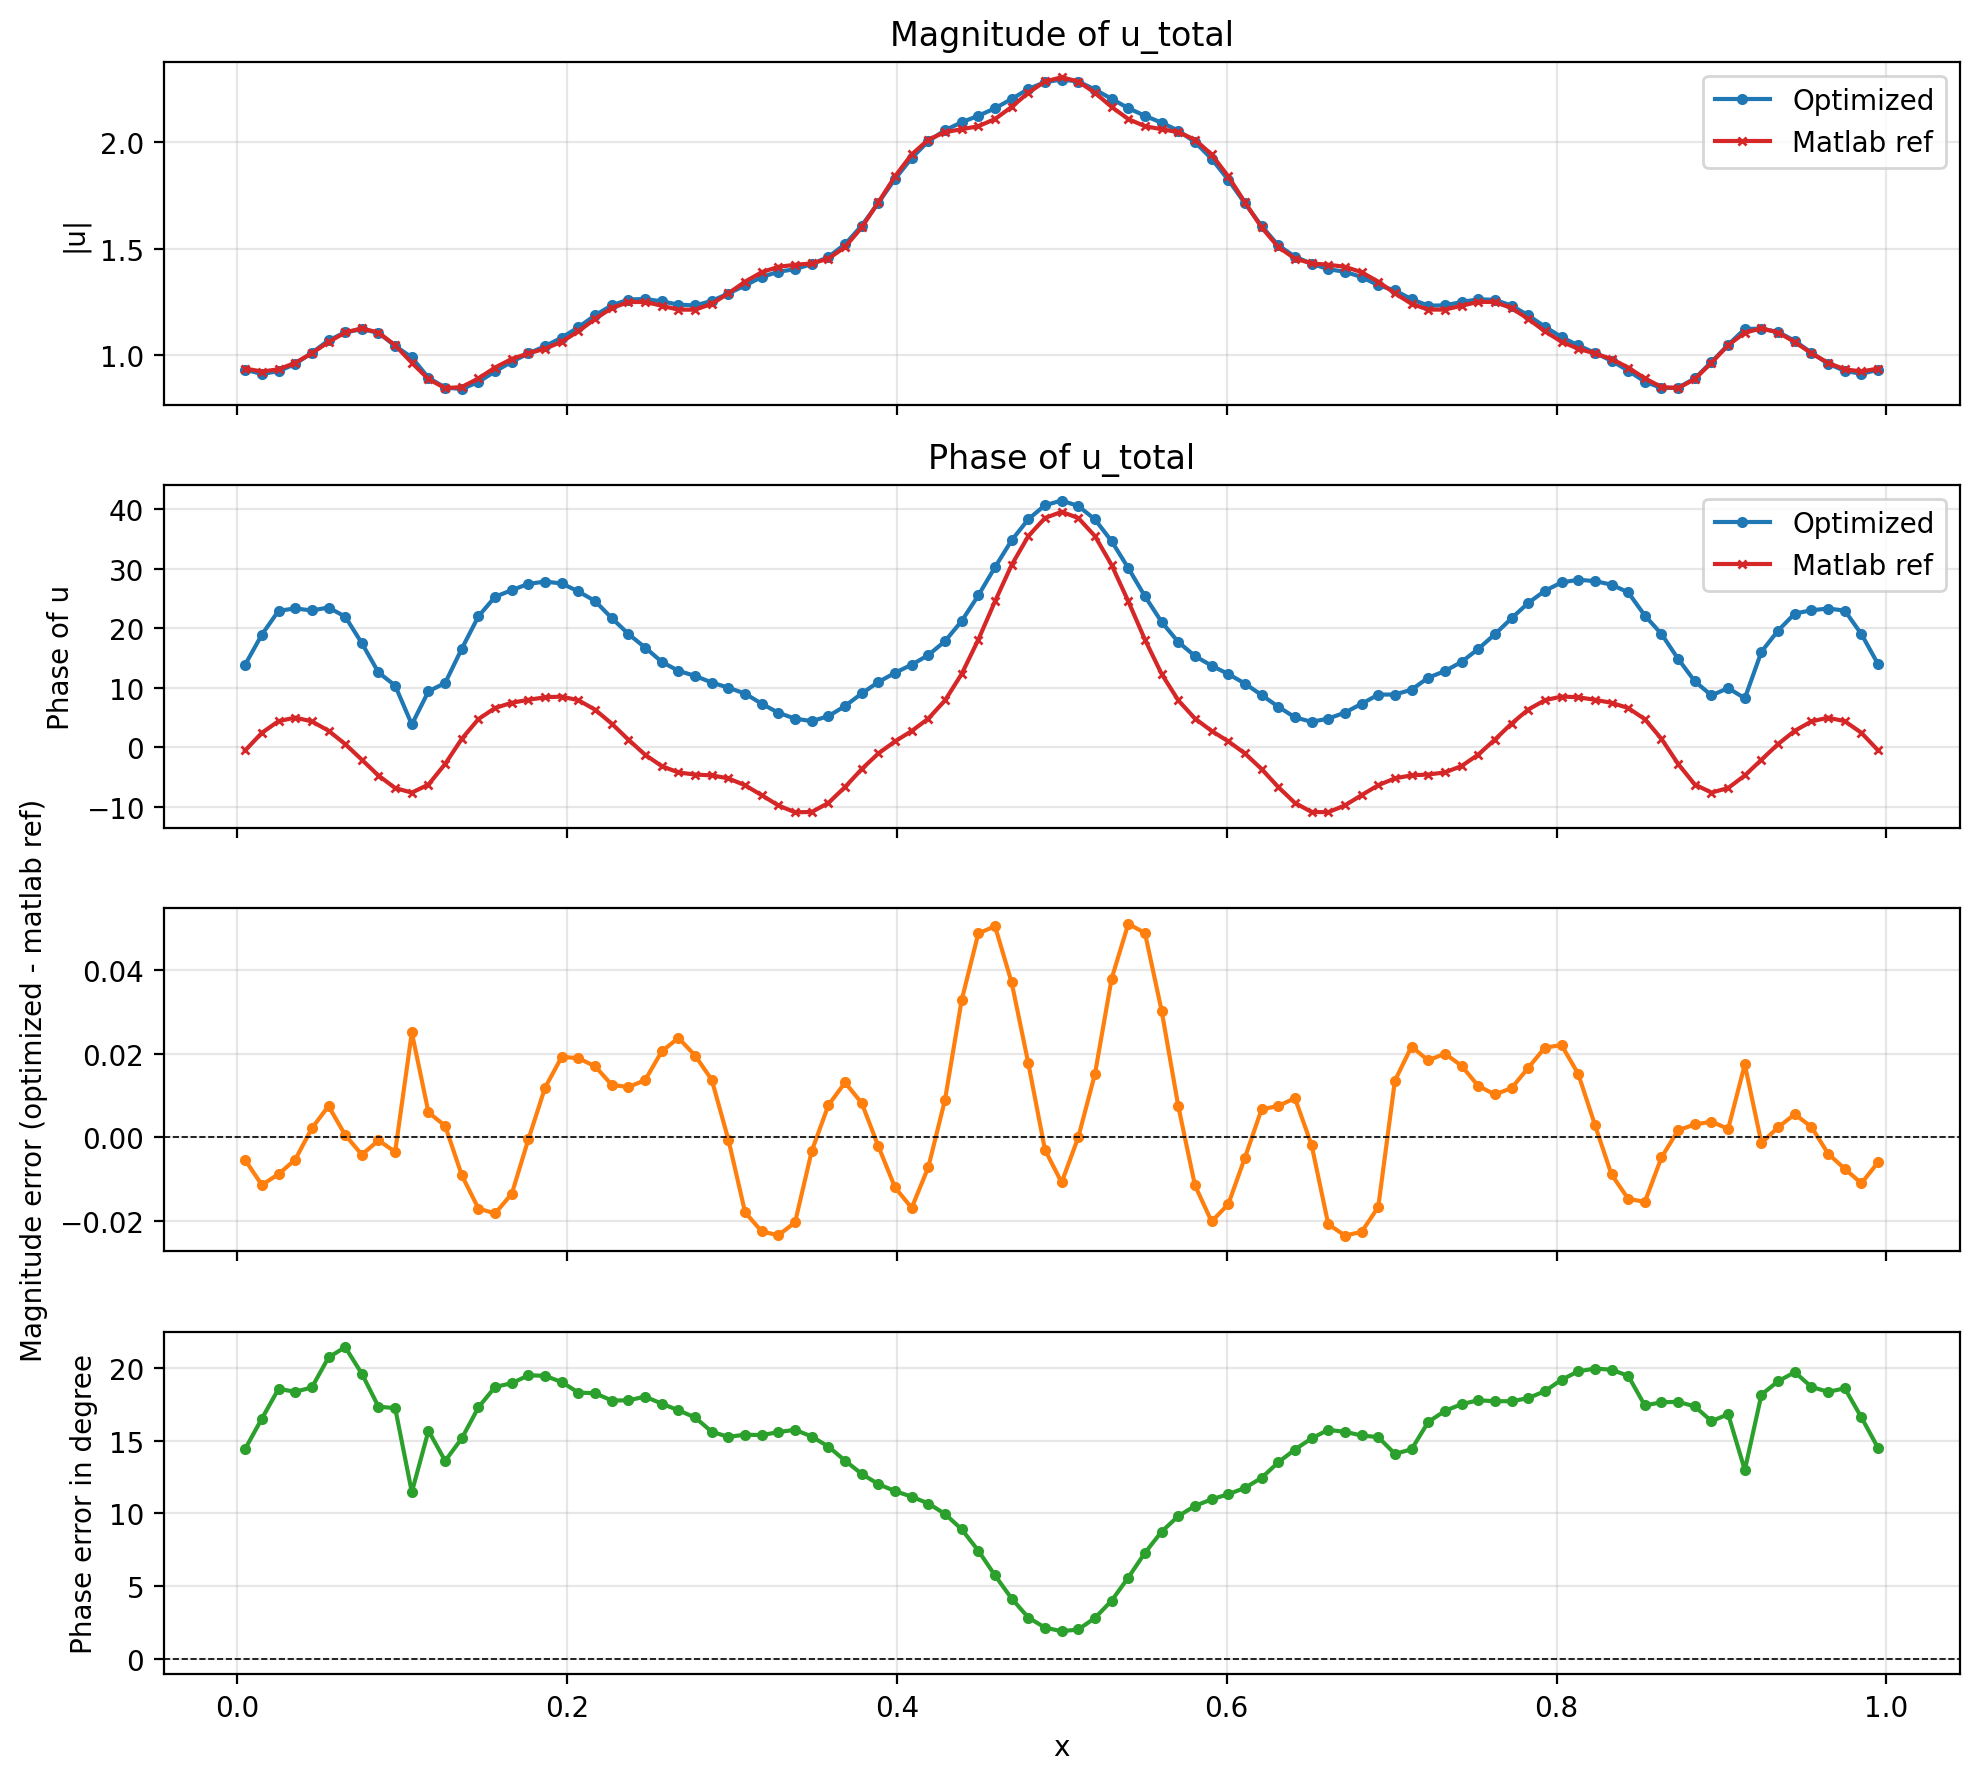
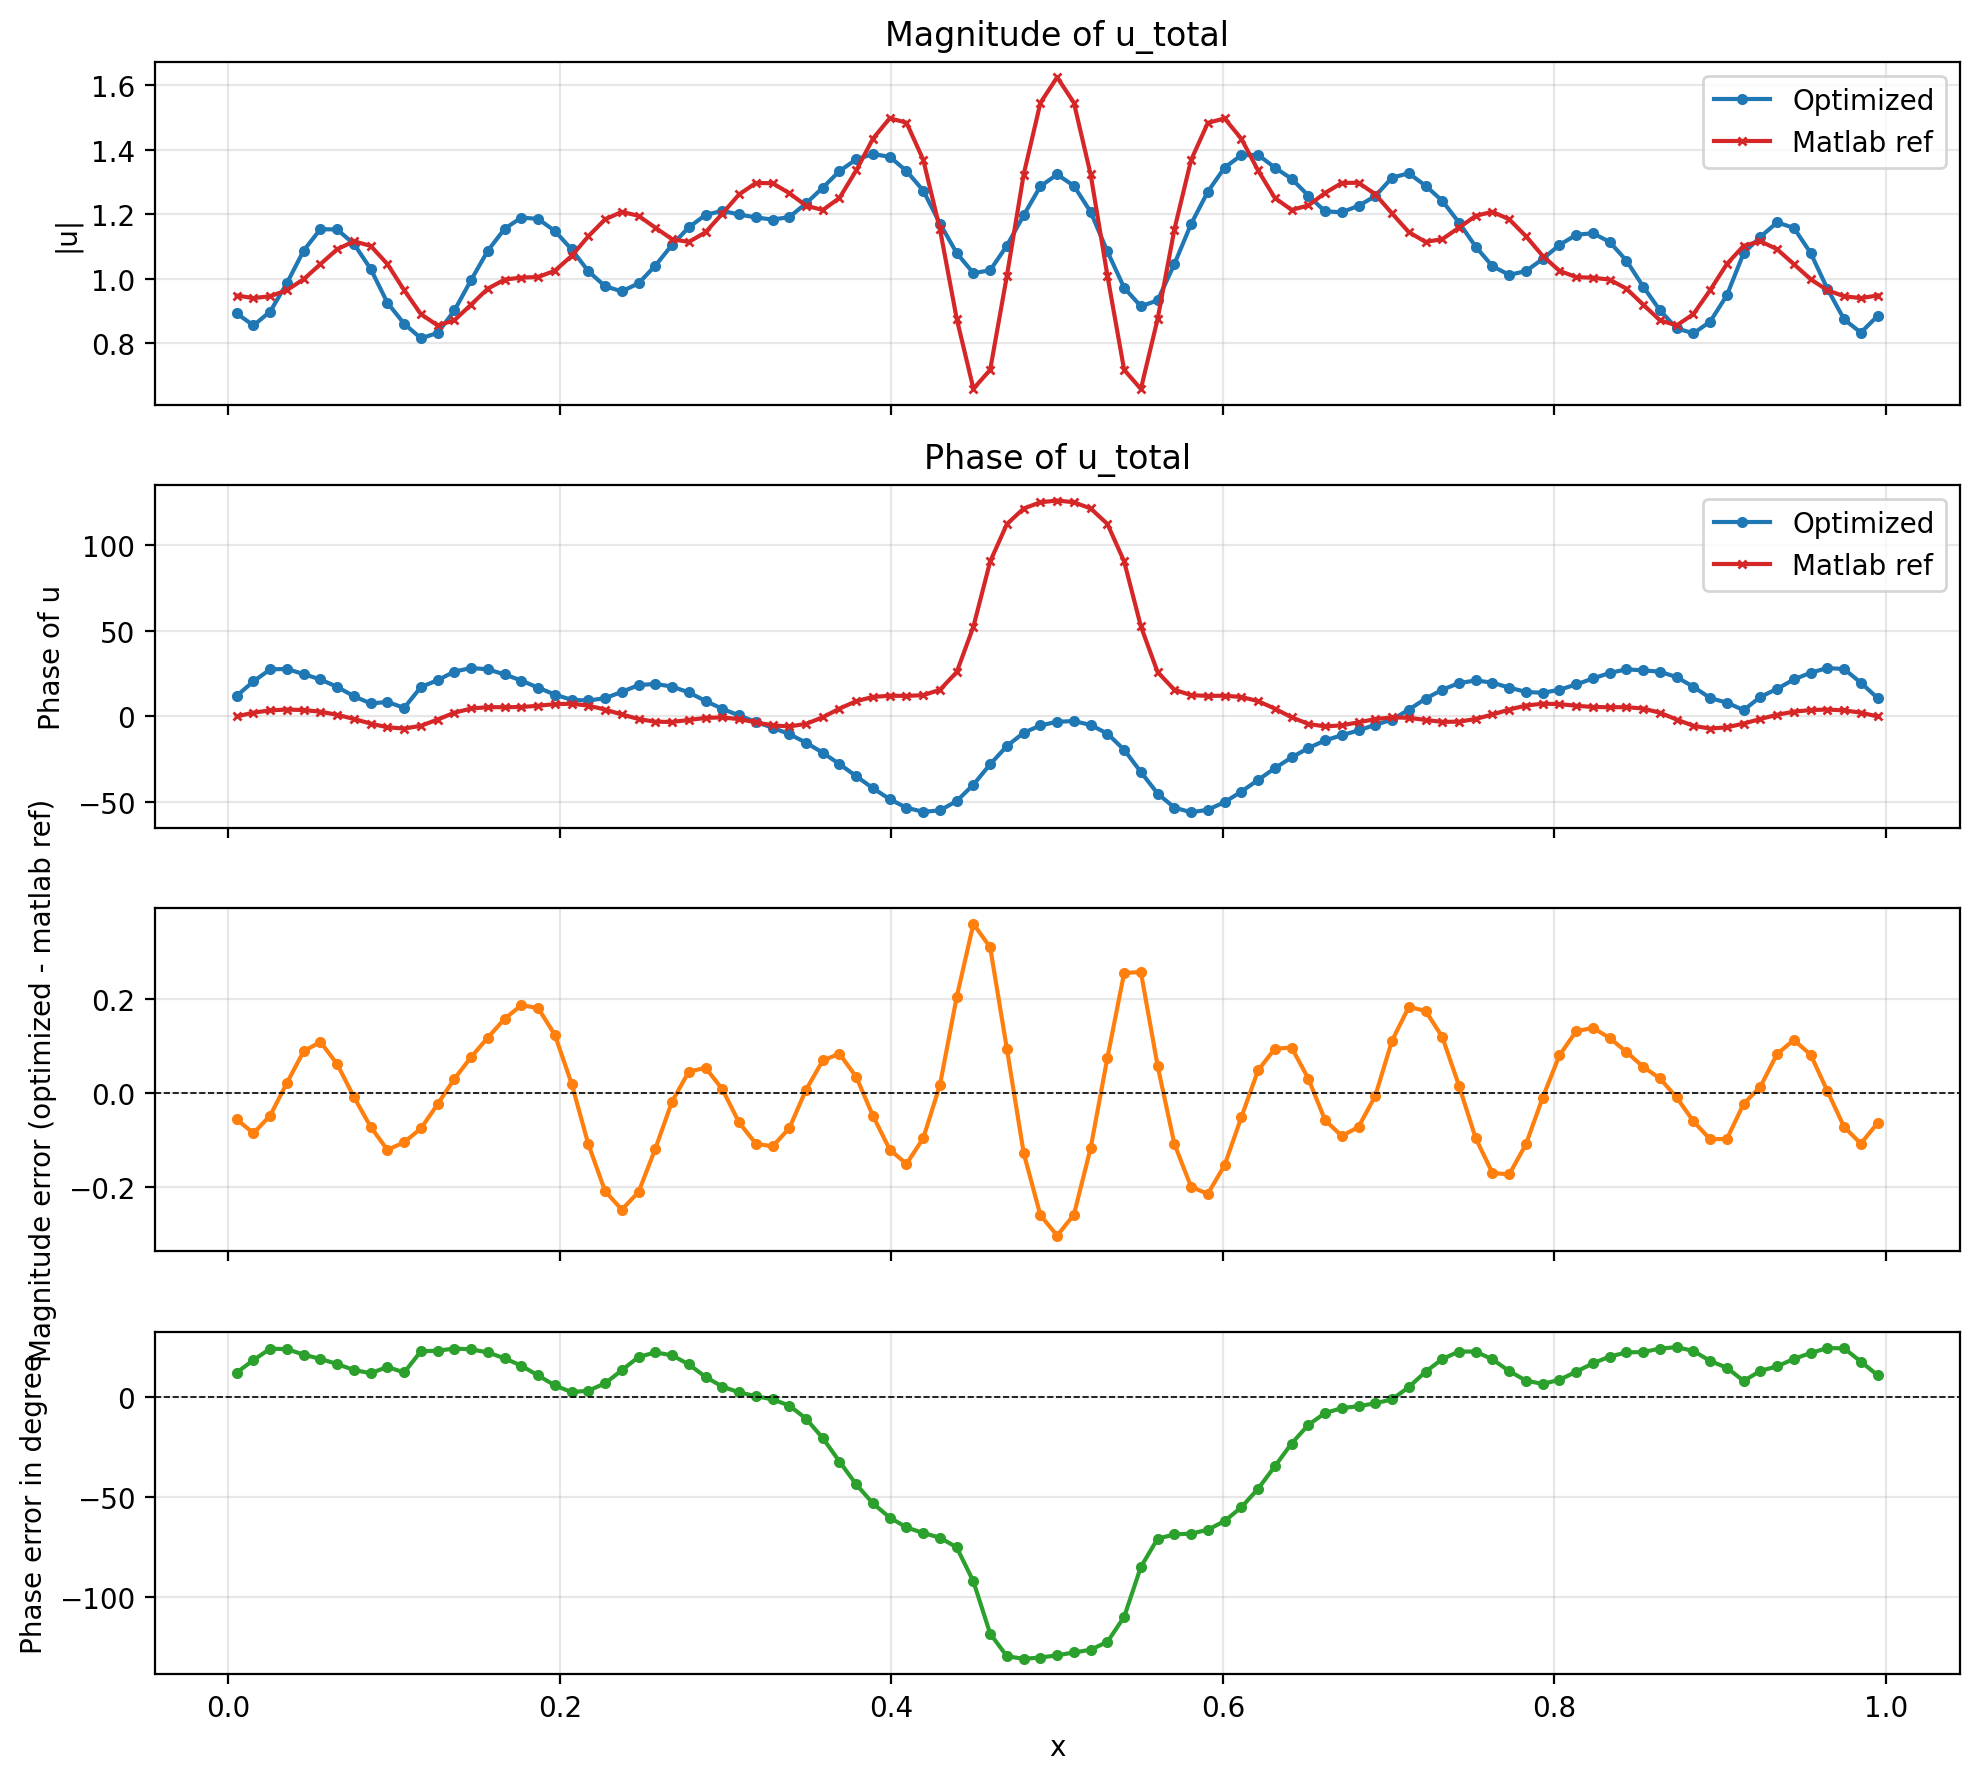
Correct the result of amp2

diff --git a/reflection_plane_wave/post_process.py b/reflection_plane_wave/post_process.py
@@ -15,7 +15,7 @@ from HH_shape_opt import *
 frequency = 5e9
 inc_wave_setup = IncidentWaveSetup(frequency, plane_wave)
 
-measurement_data_file_path = "measurements/matlab_measurements_sin0.5_scatter.csv"
+measurement_data_file_path = "measurements/matlab_measurements_sin0.5_amp2.csv"
 msh_file_path = "meshes/square_with_rect_obstacle.msh"
 markers_dict = {
     "obstacle": OBSTACLE_MARKER,
@@ -28,17 +28,17 @@ obstacle_stiffness = 25
 initial_guess_mesh_util = MeshUtil(
     msh_file_path, markers_dict, obstacle_stiffness)
 
-result_path = "outputs/result_sin0.5_scatter_DG0_matlab.h5"
+result_path = "outputs/result_sin0.5_amp2_DG0_matlab.h5"
 goal_geometry_msh_path = "meshes/square_with_halfsin_perturbed_rect_obstacle.msh"
-matlab_fullfield_csv_path = "measurements/matlab_fullfield_sin0.5_scatter.csv"
+matlab_fullfield_csv_path = "measurements/matlab_fullfield_sin0.5_amp2.csv"
 results = calculate_magnitude_and_phase_error(matlab_fullfield_csv_path, result_path,
-                                        initial_guess_mesh_util, inc_wave_setup, True)
+                                        initial_guess_mesh_util, inc_wave_setup, False)
 
-plot_projected_errors(results, "outputs/error_sin0.5_scatter_DG0_matlab.png", True)
+plot_projected_errors(results, "outputs/error_sin0.5_amp2_DG0_matlab.png", False)
 plot_mesh_deformation_from_result(
     result_path,
     goal_geometry_msh_path,
     initial_guess_mesh_util,
-    plot_file_name="outputs/mesh_deformation_sin0.5_scatter_DG0_matlab.png",
-    mesh_overlay_plot_file_name = "outputs/mesh_overlay_sin0.5_scatter_DG0_matlab.png"
+    plot_file_name="outputs/mesh_deformation_sin0.5_amp2_DG0_matlab.png",
+    mesh_overlay_plot_file_name = "outputs/mesh_overlay_sin0.5_amp2_DG0_matlab.png"
 )
